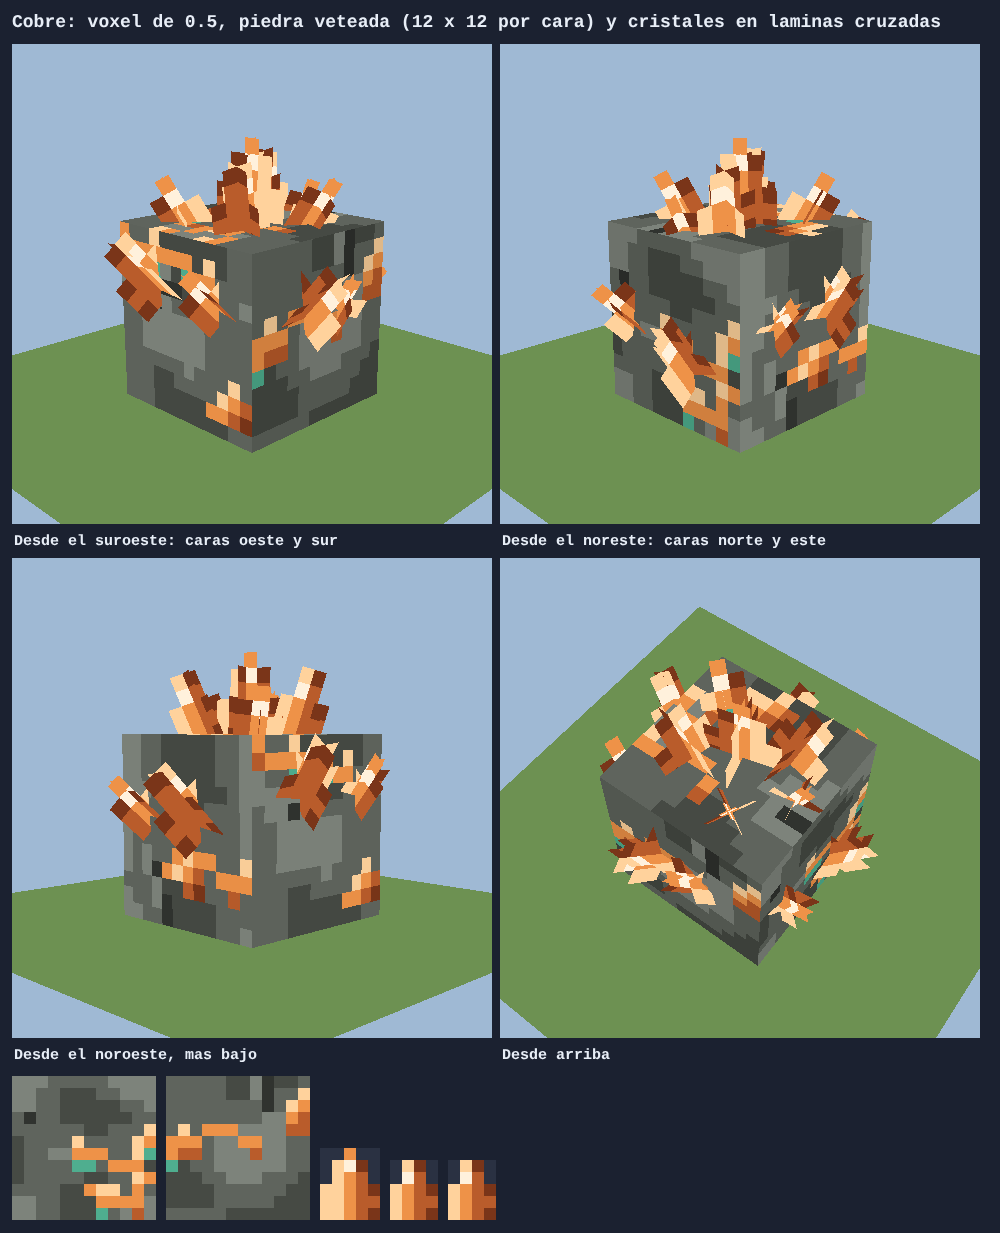
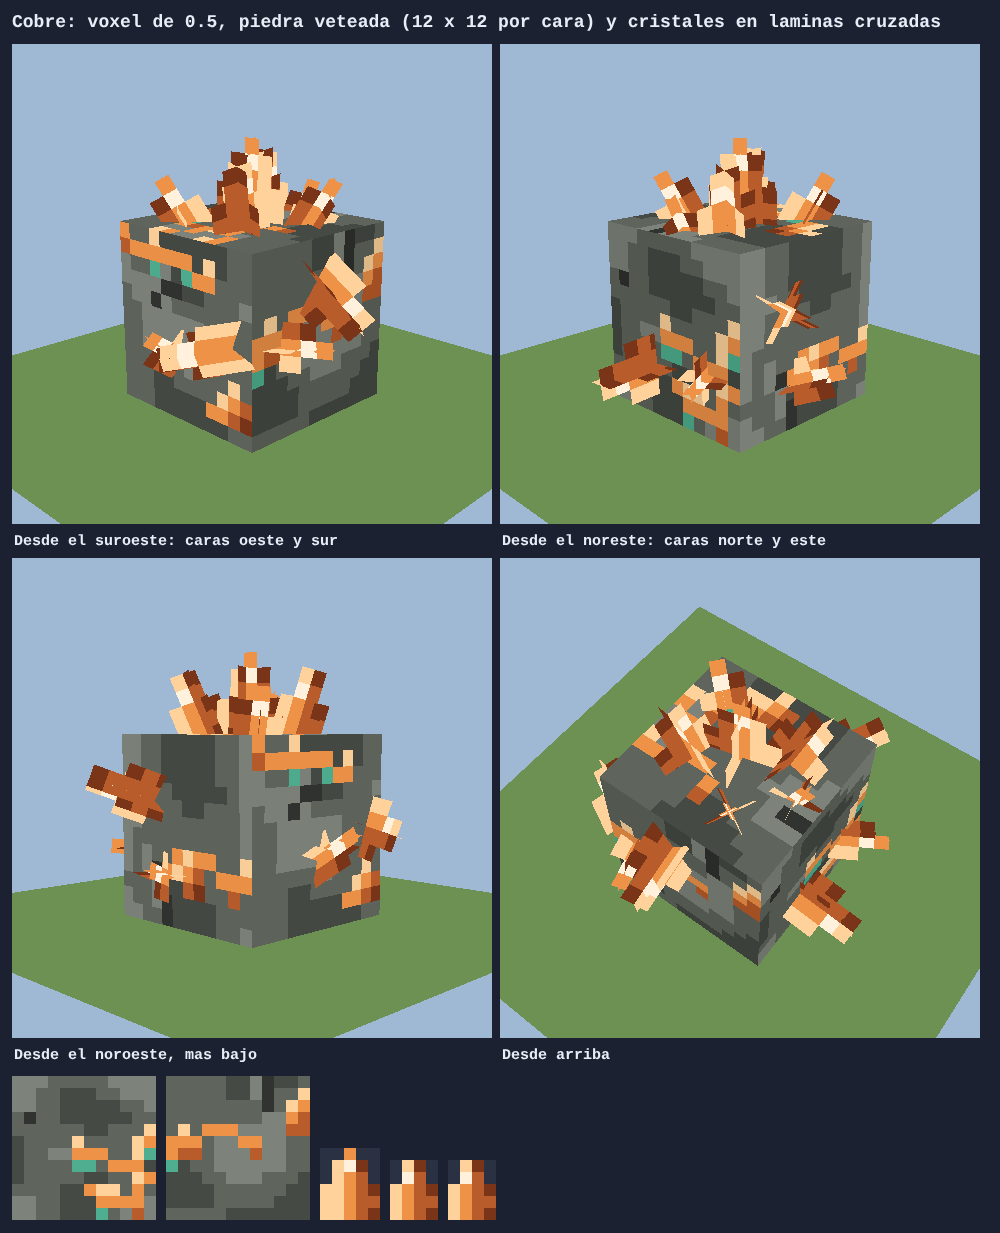
Boceto de minerales: en el voxel, cristales de los lados a 45-90 grados, en arco y sin solaparse
Claude-Session: https://claude.ai/code/session_01XutUh4eVSdN6S6kRiv2aM4

diff --git a/docs/bocetos/minerales/index.html b/docs/bocetos/minerales/index.html
@@ -235,34 +235,58 @@ top.forEach(([x, z, w, h], i) => {
   addCrystal(new THREE.Vector3((x + jitter(0.05)) * S, S, (z + jitter(0.05)) * S), axis, w, h, 100 + i, r() * Math.PI);
 });
 // Los lados: racimos pequenos pegados a la piedra, que brotan hacia fuera y
-// hacia arriba. En el voxel, uno por cara, de dos cristales.
+// hacia arriba. En el voxel, dos sueltos por cara (`voxelSide`).
 const sides = [
   [new THREE.Vector3(1, 0, 0), (u, v) => new THREE.Vector3(0.5 * S, v * S, u * S)],
   [new THREE.Vector3(-1, 0, 0), (u, v) => new THREE.Vector3(-0.5 * S, v * S, u * S)],
   [new THREE.Vector3(0, 0, 1), (u, v) => new THREE.Vector3(u * S, v * S, 0.5 * S)],
   [new THREE.Vector3(0, 0, -1), (u, v) => new THREE.Vector3(u * S, v * S, -0.5 * S)],
 ];
+/**
+ * Los dos cristales de una cara del voxel (el autor, 2026-10-20): cada uno
+ * entre 45 y 90 grados con la cara, con la punta en un arco que la lleva hacia
+ * el centro de la cara o hacia su borde (hasta 45 grados a cada lado), y a una
+ * distancia del otro que varia, **sin que sus bases se toquen nunca**: entre
+ * sus pies queda al menos lo que miden sus dos medias bases mas un margen.
+ */
+function voxelSide(n, at, k) {
+  const center = at(0, 0.5);
+  const placed = []; // [u, v, media base], en fraccion de la cara
+  [[4, 5], [3, 4]].forEach(([w, h], i) => {
+    const half = w / 2 / N;
+    let u = 0;
+    let v = 0.5;
+    for (let t = 0; t < 80; t++) {
+      u = -0.38 + r() * 0.76;
+      v = 0.18 + r() * 0.64;
+      if (placed.every(([pu, pv, ph]) => Math.hypot(u - pu, v - pv) >= ph + half + 0.08)) break;
+    }
+    placed.push([u, v, half]);
+    const base = at(u, v);
+    // El arco: del centro de la cara hacia fuera, o al reves, con su desvio.
+    let radial = base.clone().sub(center);
+    if (radial.length() < 1e-3) radial = new THREE.Vector3(n.z, 0, -n.x);
+    radial.normalize().multiplyScalar(r() < 0.5 ? -1 : 1).applyAxisAngle(n, (r() - 0.5) * (Math.PI / 2));
+    const tilt = Math.PI / 4 + r() * (Math.PI / 4); // con la cara: de 45 a 90 grados
+    const axis = n.clone().multiplyScalar(Math.sin(tilt)).add(radial.multiplyScalar(Math.cos(tilt)));
+    addCrystal(base, axis, w, h, 200 + k * 10 + i, r() * Math.PI);
+  });
+}
+
 sides.forEach(([n, at], k) => {
-  for (let c = 0; c < (small ? 1 : 2); c++) {
-    const u0 = small ? jitter(0.3) : (c === 0 ? -0.2 : 0.22) + jitter(0.15);
+  if (small) return voxelSide(n, at, k);
+  for (let c = 0; c < 2; c++) {
+    const u0 = (c === 0 ? -0.2 : 0.22) + jitter(0.15);
     const v0 = 0.25 + r() * 0.55;
-    const count = small ? 2 : 2 + Math.floor(r() * 2);
-    // En el voxel, los dos de cada cara sueltos, no en racimo (el autor,
-    // 2026-10-20: «parecen uno solo»): mas cerca en unas caras, mas lejos en
-    // otras, y cada uno a su altura. Solo se sortea en el voxel: el bloque
-    // aprobado sigue igual.
-    const spread = small ? 0.22 + r() * 0.42 : 0;
-    const clamp = (v, lo, hi) => Math.max(lo, Math.min(hi, v));
+    const count = 2 + Math.floor(r() * 2);
     for (let i = 0; i < count; i++) {
       const lateral = new THREE.Vector3(n.z, 0, -n.x).multiplyScalar(jitter(0.8));
       const axis = n.clone().multiplyScalar(0.8).add(UP.clone().multiplyScalar(0.7 + r() * 0.5)).add(lateral);
       const big = i === 0;
       // En este orden los sorteos: la posicion antes que el tamano, como en el
       // bloque que aprobo el autor (cambiarlo cambia todo el dibujo).
-      const base = small
-        ? at(clamp(u0 + (i - 0.5) * spread + jitter(0.08), -0.38, 0.38), clamp(v0 + jitter(0.4), 0.2, 0.85))
-        : at(u0 + jitter(0.14), v0 + jitter(0.1));
-      const [w, h] = small ? (big ? [4, 5] : [3, 4]) : big ? [8, 11] : [6, 7 + Math.floor(r() * 3)];
+      const base = at(u0 + jitter(0.14), v0 + jitter(0.1));
+      const [w, h] = big ? [8, 11] : [6, 7 + Math.floor(r() * 3)];
       addCrystal(base, axis, w, h, 200 + k * 10 + c * 4 + i, r() * Math.PI);
     }
   }

diff --git a/docs/pendiente.md b/docs/pendiente.md
@@ -99,8 +99,14 @@ Pidio solo un ejemplo, sin tocar el juego, para el cobre y el carbon.
   despues: caras de 12 × 12 y cristales de **0,25 como mucho** (6 pixeles).
   El autor: los de los lados «están tan juntos que parecen uno solo»; ahora
   los dos de cada cara van sueltos, separados de un quinto a dos tercios de la
-  cara segun la cara (*deduccion*), y cada uno a su altura. **Esperando al
-  autor.**
+  cara segun la cara (*deduccion*), y cada uno a su altura. Despues, el
+  autor: que varien «entre 45 y 90 grados con respecto a la cara», en un arco
+  con la punta «hacia adentro o hacia afuera del bloque», y que su distancia y
+  posicion varien «pero nunca lleguen a solaparse sus bases». Leido asi
+  (*por confirmar*): la punta, hacia el centro de la cara o hacia su borde,
+  con hasta 45 grados de desvio; entre dos pies, sus dos medias bases y un
+  margen de 0,08 de la cara (`voxelSide`). Solo en el voxel: el bloque
+  aprobado no cambia. **Esperando al autor.**
 - Lo que elegi yo (*por confirmar*): la piedra gris verdosa, los colores de
   cada mineral (y el cardenillo en las vetas del cobre), cuantos cristales y
   donde, su forma (prisma en punta con su cara de luz y su brillo).
